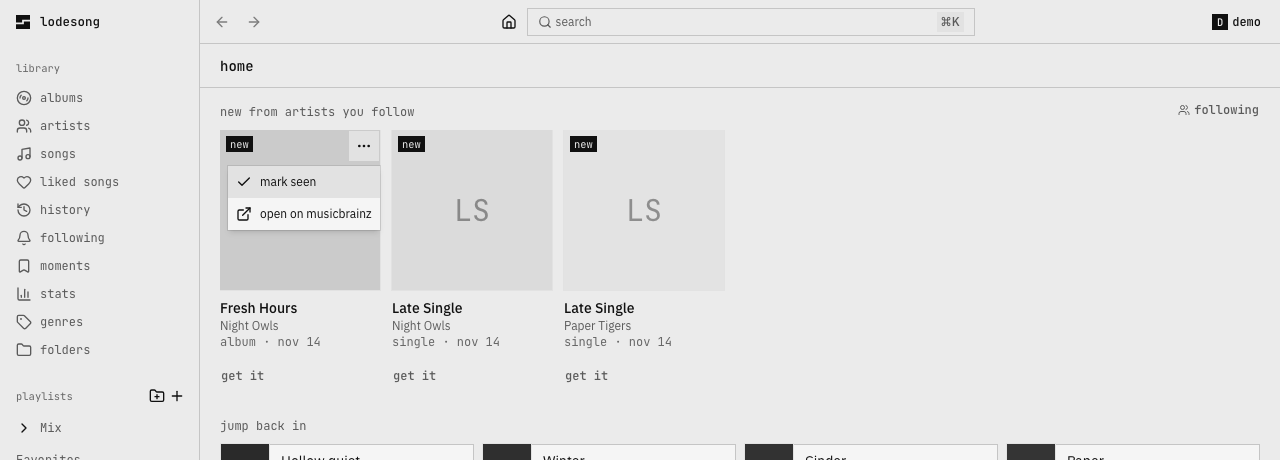
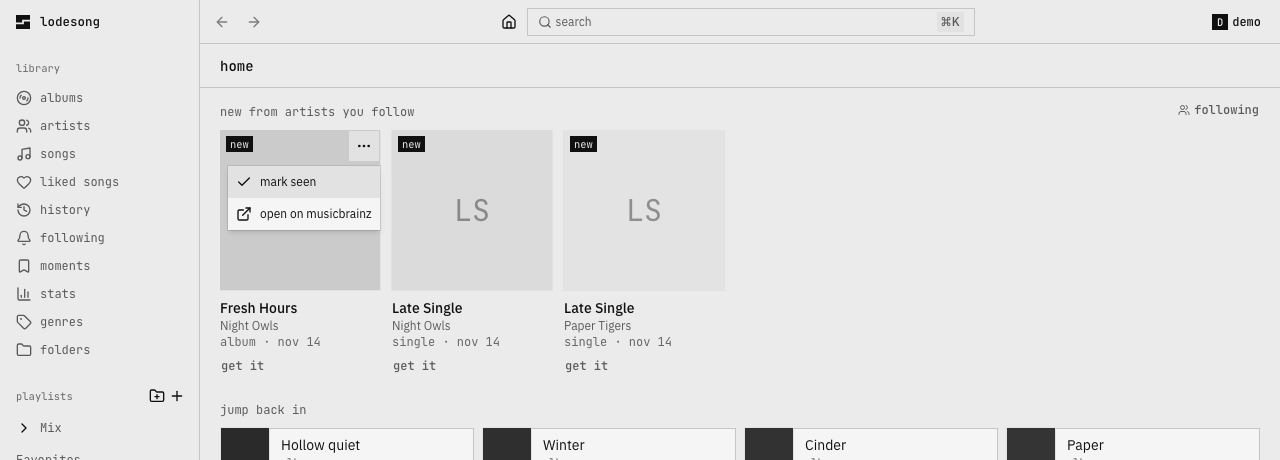
fix(home): past week only

diff --git a/e2e/releases.e2e.ts b/e2e/releases.e2e.ts
@@ -29,9 +29,12 @@ test("a followed artist's new release is a card with its type, date and link, an
   await expect(card.getByText("Night Owls")).toBeVisible();
   await expect(card.getByText(/^album · /)).toBeVisible();
   await expect(row.getByText("Live In Nowhere")).toHaveCount(0);
-  await expect(card.getByRole("link", { name: "Fresh Hours" })).toHaveAttribute("href", /musicbrainz\.org\/release-group\/rg-fresh-hours/);
+  await expect(card.getByRole("link", { name: "Fresh Hours" })).toHaveAttribute(
+    "href",
+    "https://musicbrainz.org/release-group/rg-fresh-hours",
+  );
   await expect(card.getByRole("link", { name: "Fresh Hours" })).toHaveAttribute("target", "_blank");
-  await page.context().route(/musicbrainz\.org/, (route) => route.fulfill({ body: "ok" }));
+  await page.context().route("https://musicbrainz.org/**", (route) => route.fulfill({ body: "ok" }));
   const [popup] = await Promise.all([page.waitForEvent("popup"), card.click({ position: { x: 80, y: 80 } })]);
   expect(popup.url()).toContain("rg-fresh-hours");
   await popup.close();
@@ -77,6 +80,31 @@ test("a followed artist's new songs go into the release radar, not onto the foll
     await fetch(`${process.env.E2E_MOCK_URL}/mock/added?id=${song.id}&mode=off`, { method: "POST" });
     await call("/api/index", { method: "POST" });
   }
+});
+
+test("a shelf of releases older than a week is hidden, and the menu does not open the card link", async ({ signedIn: page }) => {
+  await follow(page, "Night Owls");
+  await page.goto("/");
+  const row = page.getByRole("list", { name: "new releases" });
+  await expect(async () => {
+    await page.reload();
+    await expect(row).toBeVisible({ timeout: 2000 });
+  }).toPass({ timeout: 20_000 });
+  let opened = false;
+  page.on("popup", () => {
+    opened = true;
+  });
+  const card = row.getByRole("listitem").filter({ hasText: "Fresh Hours" });
+  await card.getByRole("button", { name: "more for Fresh Hours" }).click();
+  await expect(page.getByRole("menuitem", { name: "open on musicbrainz" })).toBeVisible();
+  await page.waitForTimeout(500);
+  expect(opened).toBe(false);
+  await page.keyboard.press("Escape");
+
+  await page.clock.install({ time: Date.now() + 10 * 86_400_000 });
+  await page.reload();
+  await expect(page.getByRole("heading", { name: "recently added" })).toBeVisible();
+  await expect(row).toHaveCount(0);
 });
 
 test("the following page finds an artist through a typo, pins and unfollows it", async ({ signedIn: page }) => {

diff --git a/apps/player/src/components/new-releases.tsx b/apps/player/src/components/new-releases.tsx
@@ -10,11 +10,12 @@ import { RELEASE_CARD_HEIGHT, thisWeek } from "@/lib/releases";
 import { rpc } from "@/lib/rpc";
 
 const SHELF = 12;
+const DAY = 86_400_000;
 const HAD_SHELF = "lodesong:had-release-shelf";
 
 function hadShelf(): boolean {
   try {
-    return localStorage.getItem(HAD_SHELF) === "1";
+    return Date.now() - Number(localStorage.getItem(HAD_SHELF)) < DAY;
   } catch {
     return false;
   }
@@ -22,16 +23,27 @@ function hadShelf(): boolean {
 
 // New albums, EPs and singles by artists you follow that aren't in the library yet. The full feed is on /following.
 export default function NewReleases() {
-  const { data } = useQuery(rpc.releases.list.queryOptions({ staleTime: 0, refetchOnWindowFocus: false }));
+  const { data, isFetching } = useQuery(rpc.releases.list.queryOptions({ staleTime: 0, refetchOnWindowFocus: false }));
   const fresh = data?.watching ? thisWeek(data.releases, Date.now()) : [];
+  const follows = useQuery(rpc.follows.list.queryOptions({ enabled: !!data && !fresh.length }));
   useEffect(() => {
-    if (!data) return;
+    if (!data || isFetching) return;
     try {
-      localStorage.setItem(HAD_SHELF, fresh.length ? "1" : "0");
+      localStorage.setItem(HAD_SHELF, fresh.length ? String(Date.now()) : "0");
     } catch {}
-  }, [data, fresh.length]);
-  if (!data) return hadShelf() ? <NewReleasesSkeleton /> : null;
-  if (!fresh.length) return null;
+  }, [data, isFetching, fresh.length]);
+  if (!fresh.length && (!data || isFetching)) return hadShelf() ? <NewReleasesSkeleton /> : null;
+  if (!fresh.length) {
+    if (follows.data?.artists.length !== 0) return null;
+    return (
+      <p className="px-5 pt-3.5 pb-1.5 font-mono text-muted-foreground text-xs">
+        new releases from artists you follow show up here.{" "}
+        <Link href="/following" className="text-foreground underline">
+          find artists to follow
+        </Link>
+      </p>
+    );
+  }
   return (
     <Section
       title="new from artists you follow"

diff --git a/e2e/cls.e2e.ts b/e2e/cls.e2e.ts
@@ -36,6 +36,23 @@ for (const route of ROUTES)
     expect(await shifts(page)).toEqual({ cls: 0, shifts: [] });
   });
 
+test("the release shelf reserves its slot when it showed in the last day, and moves nothing", async ({ page, signedIn }) => {
+  await signedIn.evaluate(() =>
+    fetch("/api/follows", {
+      method: "PUT",
+      headers: { "x-lodesong": "1", "content-type": "application/json" },
+      body: JSON.stringify({ name: "Night Owls", status: "pinned" }),
+    }),
+  );
+  await expect(async () => {
+    await signedIn.goto("/");
+    await expect(signedIn.getByRole("list", { name: "new releases" })).toBeVisible({ timeout: 2000 });
+  }).toPass({ timeout: 20_000 });
+  await page.addInitScript(watchShifts);
+  await signedIn.goto("/");
+  expect(await shifts(page)).toEqual({ cls: 0, shifts: [] });
+});
+
 test.describe(() => {
   // The album request is held with page.route, which doesn't see requests the service worker makes.
   test.use({ serviceWorkers: "block" });

diff --git a/apps/player/src/components/release-card.tsx b/apps/player/src/components/release-card.tsx
@@ -72,7 +72,7 @@ export function ReleaseCard({ release }: { release: NewRelease }) {
       <span className="truncate font-mono text-faint text-xs leading-4">
         {release.kind} · {when(release.date)}
       </span>
-      <span className="relative z-10 mt-1 flex h-11 items-center">
+      <span className="relative z-10 flex h-8 items-center">
         {release.canGet &&
           (release.requested ? (
             <span className="font-mono text-muted-foreground text-xs">asked lyterion</span>
@@ -80,7 +80,7 @@ export function ReleaseCard({ release }: { release: NewRelease }) {
             <Button
               size="xs"
               variant="ghost"
-              className="-ml-2 h-11 px-2 font-mono text-muted-foreground"
+              className="-my-1.5 -ml-2 h-11 px-2 font-mono text-muted-foreground"
               disabled={get.isPending}
               aria-label={`get ${release.title}`}
               onClick={() => get.mutate({ id: release.id })}

diff --git a/apps/player/src/lib/releases.test.ts b/apps/player/src/lib/releases.test.ts
@@ -14,8 +14,15 @@ const release = (id: string, date: string, kind = "album"): NewRelease => ({
   seen: false,
 });
 
-test("the home shelf keeps only releases from the last 7 days", () => {
-  const now = Date.UTC(2026, 9, 29);
-  const all = [release("today", "2026-10-29"), release("edge", "2026-10-22"), release("old", "2026-10-21"), release("soon", "2026-11-05")];
-  expect(thisWeek(all, now).map((item) => item.id)).toEqual(["today", "edge", "soon"]);
+test("the home shelf keeps only releases from the last 7 days, today included", () => {
+  const now = Date.UTC(2026, 9, 29, 15);
+  const all = [
+    release("today", "2026-10-29"),
+    release("edge", "2026-10-22"),
+    release("old", "2026-10-21"),
+    release("tomorrow", "2026-10-30"),
+    release("soon", "2026-11-05"),
+    release("month", "2026-10"),
+  ];
+  expect(thisWeek(all, now).map((item) => item.id)).toEqual(["today", "edge"]);
 });

diff --git a/apps/player/src/lib/releases.ts b/apps/player/src/lib/releases.ts
@@ -1,7 +1,7 @@
 import type { NewRelease } from "@lodesong/shared/releases";
 
 /** Fixed: the home shelf reserves exactly this much before releases arrive, so nothing below moves. */
-export const RELEASE_CARD_HEIGHT = 268;
+export const RELEASE_CARD_HEIGHT = 252;
 
 function parts(date: string): [number, number, number | undefined] {
   const [year, month, day] = date.split("-").map(Number);
@@ -22,5 +22,10 @@ export function when(date: string): string {
 }
 
 export function thisWeek(releases: NewRelease[], now: number): NewRelease[] {
-  return releases.filter((release) => time(release.date) >= now - WEEK);
+  const today = now - (now % DAY);
+  return releases.filter((release) => {
+    if (!parts(release.date)[2]) return false;
+    const at = time(release.date);
+    return at >= today - WEEK && at <= today;
+  });
 }
